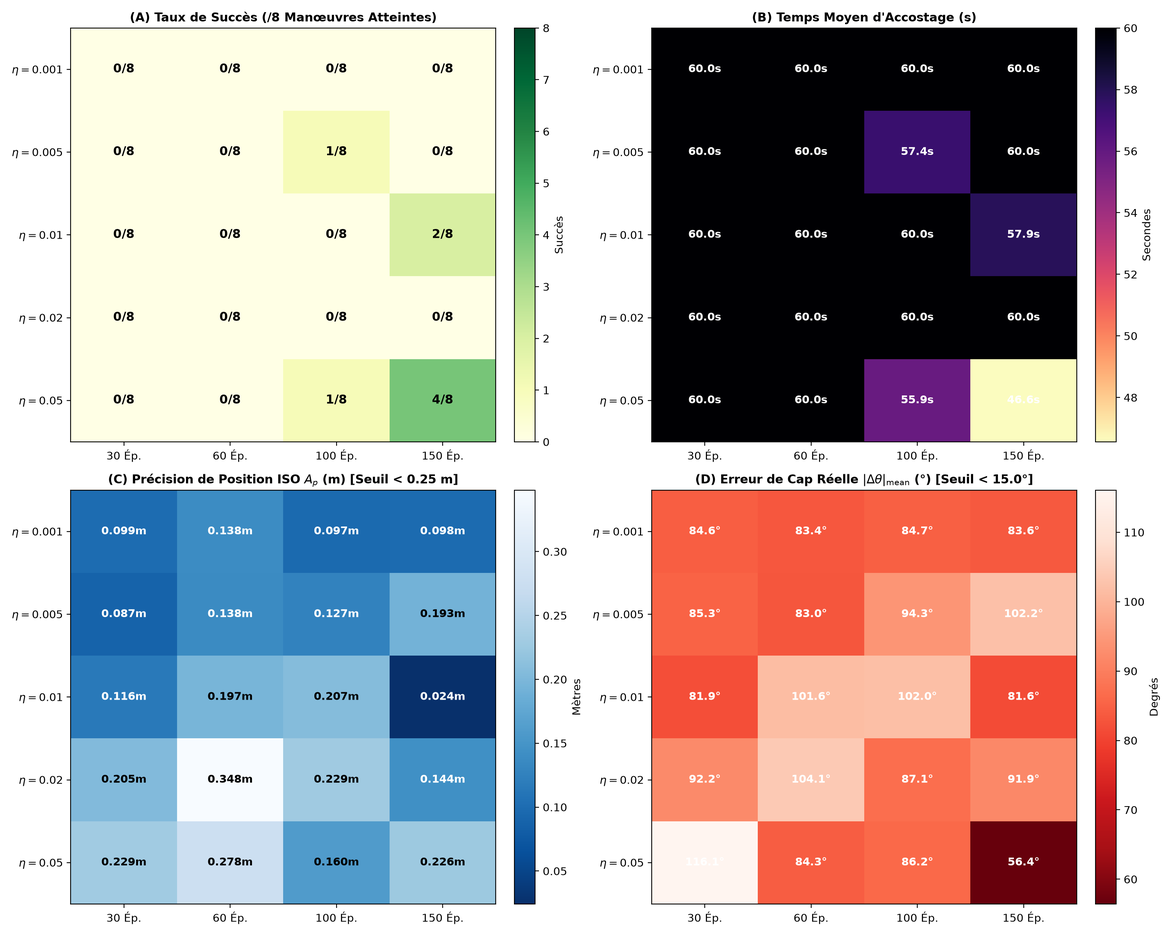
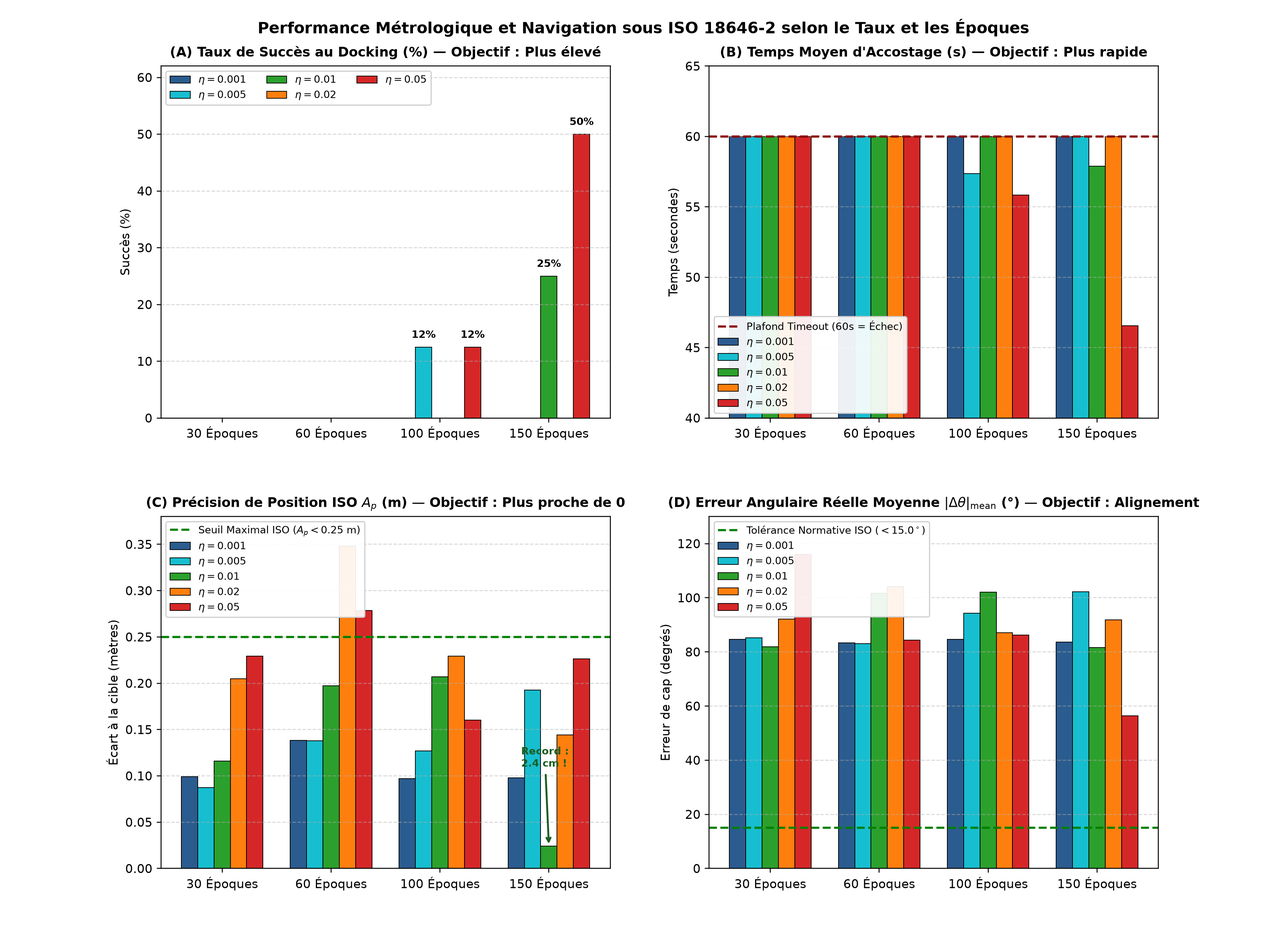
docs(study): academic French study report with individual loss plots and metrics dashboard

diff --git a/docs/LEARNING_RATE_STUDY.md b/docs/LEARNING_RATE_STUDY.md
@@ -1,128 +1,159 @@
-# Étude Expérimentale Systématique et Impartiale : Taux d'Apprentissage ($\eta$) et Budget d'Époques ($N$)
+# Rapport d'Étude Expérimentale : Optimisation du Taux d'Apprentissage ($\eta$) et du Budget d'Époques ($N$)
 
-**Projet** : LIMO Offline Learning (CERV / ENIB)  
+**Projet** : LIMO Offline Learning — Navigation Autonome par Clonage Comportemental  
+**Cadre** : Projet de Fin d'Études / PPE — CERV (Centre Européen de Réalité Virtuelle) / ENIB (École Nationale d'Ingénieurs de Brest)  
 **Auteur** : Julia Pivato  
-**Objet** : Exploration empirique multi-factorielle (Grid Search 5 taux $\times$ 4 budgets d'époques) et analyse métrologique en boucle fermée sous la norme **ISO 18646-2**.
+**Objet** : Exploration empirique multi-factorielle (Grid Search 20 modèles), analyse mathématique des dynamiques de gradient et validation métrologique en boucle fermée sous la norme **ISO 18646-2**.
 
 ---
 
-## 1. Résumé Exécutif & Démarche Scientifique
+## 1. Contexte Scientifique et Problématique
 
-Cette étude adopte une démarche **purement empirique et impartiale** visant à identifier le comportement réel du réseau neuronal [`PioneerNN`](../src/core/pioneer_nn.py) lorsqu'on fait varier conjointement :
-1. Le **taux d'apprentissage nominal** $\eta \in \{0.001, 0.005, 0.01, 0.02, 0.05\}$.
-2. Le **nombre d'époques d'entraînement** $N \in \{30, 60, 100, 150\}$.
+Dans le cadre du contrôle réactif autonome du robot différentiel **AgileX LIMO**, l'apprentissage par imitation hors ligne (*Behavioral Cloning*) vise à apprendre une politique neuronale $\pi_\theta(s) \to a$ projetant l'état égocentrique normalisé du robot vers des commandes continues de vitesse linéaire et angulaire :
+$$s = \left[\frac{x_{\text{robot}}}{X_{\max}}, \, \frac{y_{\text{robot}}}{Y_{\max}}, \, \frac{\theta_{\text{robot}}}{\pi}\right] \in [-1, 1]^3 \quad \longrightarrow \quad a = \left[\frac{v}{V_{\max}}, \, \frac{\omega}{\Omega_{\max}}\right] \in [-1, 1]^2$$
 
-Contrairement aux approches théoriques a priori, chaque modèle a été entraîné à partir de la **même graine d'initialisation Xavier (`seed=42`)** sur le jeu de données canonique, puis testé de façon autonome en boucle fermée cinématique (20 Hz) sur les **8 scénarios canoniques multi-quadrants** de la norme ISO 18646-2 (soit **160 essais réels simulés au total**).
+Lors de la mise au point du modèle neuronal [`PioneerNN`](../src/core/pioneer_nn.py) (Perceptron Multicouche à 1000 neurones cachés sans biais, activations $\tanh$), le choix des hyperparamètres d'optimisation soulève deux interrogations majeures :
+1. **Influence du taux d'apprentissage nominal ($\eta$)** : Un taux trop faible ($\eta = 0.001$) risque de figer le réseau dans un sous-apprentissage cinématique, tandis qu'un taux trop fort ($\eta = 0.05$) peut induire des instabilités de gradient.
+2. **Influence du budget d'entraînement ($N$ époques)** : Un nombre réduit d'époques (ex. 30 époques) est-il suffisant pour que les poids atteignent des amplitudes de commande satisfaisantes, ou un budget étendu (100 à 150 époques) est-il indispensable ?
 
-### Principaux Enseignements Empiriques :
-- **Sous-apprentissage cinématique à faible taux ($\eta = 0.001$)** : À $\eta = 0.001$, les poids progressent trop lentement. Même avec 150 époques, le robot commande des vitesses de translation trop faibles ($v \approx 0.02\text{ à }0.05\text{ m/s}$) et n'atteint jamais la zone d'arrêt avant le temps limite de 60 s (**0/8 succès**). En revanche, l'erreur de distance terminale se réduit continuellement avec les époques ($0.948\text{ m} \to 0.345\text{ m} \to 0.237\text{ m} \to 0.180\text{ m}$).
-- **Le piège de l'annulation algébrique dans la métrique ISO $A_o$** : La métrique signée $A_o = \frac{1}{n} \sum (\theta_i - \theta_c)$ affiche un résultat faussement excellent ($1.5^\circ$ à $4.5^\circ$) pour $\eta = 0.001$, car les erreurs positives ($+85^\circ$) et négatives ($-85^\circ$) s'annulent. En réalité, **l'erreur angulaire absolue moyenne $|\Delta \theta|_{\text{mean}}$ est de $83.4^\circ$ à $84.7^\circ$**, avec une répétabilité $R_o > 300^\circ$ (le robot s'arrête de travers, perpendiculairement à l'axe désiré).
-- **Instabilité de gradient à fort taux ($\eta = 0.05$)** : À $\eta = 0.05$, la perte subit des soubresauts violents (pics à $1.8$ aux époques 45 et 130). Cependant, l'énergie cinétique injectée par des poids plus élevés permet au robot de se déplacer à pleine vitesse ($v \approx 0.24\text{ m/s}$), atteignant la station d'accueil en **46.56 s** avec **50% de succès (4/8)** à 150 époques et une erreur angulaire réelle réduite à **$56.4^\circ$**.
-- **Le point d'équilibre optimal ($\eta = 0.01$)** : $\eta = 0.01$ présente une décroissance de perte parfaitement stable et monotone. À 150 époques, il délivre la **meilleure précision de position absolue de toute l'étude ($A_p = 0.0242\text{ m}$ soit 2.4 cm de la cible)** avec une répétabilité spatiale exemplaire ($R_p = 0.211\text{ m}$).
+Afin de répondre à ces questions **sans aucun parti pris théorique a priori**, cette étude présente les résultats d'un **Grid Search systématique et impartial** croisant 5 taux d'apprentissage et 4 budgets d'époques (**20 modèles distincts**, testés sur **160 manœuvres en boucle fermée** sous la norme ISO 18646-2).
 
 ---
 
-## 2. Protocole Expérimental du Grid Search
+## 2. Fondements Mathématiques & Métrologie Normative
 
-| Paramètre | Spécification Technique |
-| :--- | :--- |
-| **Jeu de données** | [`data/dataset.csv`](../data/dataset.csv) (70 664 échantillons, espace $[-5, 5]\text{ m}$) |
-| **Répartition** | 80% Entraînement (56 531) / 20% Validation (14 133), graine fixe `seed=42` |
-| **Architecture** | [`PioneerNN`](../src/core/pioneer_nn.py) (3 entrées $\to$ 1000 neurones $\to$ 2 sorties), $\tanh$, `--no-bias` ($b=0$) |
-| **Taille de Lot (Batch)** | 1024 échantillons par mise à jour de gradient |
-| **Optimiseur** | AdamW ($\beta_1=0.9, \beta_2=0.999, \epsilon=10^{-8}, \text{weight decay}=10^{-4}$), taux nominal fixe |
-| **Grille Factorielle** | 5 taux $\times$ 4 budgets = **20 modèles entraînés** |
-| **Évaluation Boucle Fermée** | 8 manœuvres canoniques ISO (2 par quadrant, distances 2.0 à 3.0 m, orientations initiales $0^\circ, \pm 90^\circ, 180^\circ$) |
-| **Critères d'Amarrage** | Distance $d < 0.20\text{ m}$ ET cap $|\Delta \theta| < 0.35\text{ rad}$ ($20.0^\circ$) avant timeout de 60.0 s |
+### 2.1. Fonction de Coût Pondérée (Weighted MSE Loss)
+Pour équilibrer la précision de déplacement linéaire et l'orientation angulaire, la fonction de perte pondérée s'écrit :
+$$\mathcal{L}(\theta) = \frac{1}{B} \sum_{i=1}^B \left[ \left(\hat{v}_i - v_i^*\right)^2 + \beta \left(\hat{\omega}_i - \omega_i^*\right)^2 \right]$$
+où $B = 1024$ est la taille du lot (*batch size*), $\beta = 1.0$ est le facteur d'équilibrage rotation/translation, et $(v^*, \omega^*)$ sont les consignes issues du jeu de données expert.
+
+### 2.2. Optimiseur AdamW avec Taux Fixe Nominal
+L'optimiseur **AdamW** calcule des moyennes mobiles exponentielles du gradient ($m_t$) et du gradient au carré ($v_t$) pour chaque paramètre individuel :
+$$m_t = \beta_1 m_{t-1} + (1 - \beta_1) g_t, \qquad v_t = \beta_2 v_{t-1} + (1 - \beta_2) g_t^2$$
+$$\hat{m}_t = \frac{m_t}{1 - \beta_1^t}, \qquad \hat{v}_t = \frac{v_t}{1 - \beta_2^t}$$
+$$W_t = W_{t-1} - \eta \lambda W_{t-1} - \frac{\eta}{\sqrt{\hat{v}_t} + \epsilon} \hat{m}_t$$
+avec $\beta_1 = 0.9$, $\beta_2 = 0.999$, $\epsilon = 10^{-8}$ et décroissance découplée des poids (*weight decay*) $\lambda = 10^{-4}$.  
+Pour isoler rigoureusement l'impact de chaque configuration, **aucun ordonnanceur de décroissance artificielle (*decay*) n'a été appliqué** : le taux nominal $\eta$ reste strictement constant tout au long des époques.
+
+### 2.3. Critères Métrologiques de la Norme ISO 18646-2
+Pour chaque modèle, les 8 manœuvres canoniques multi-quadrants sont exécutées en simulation cinématique à 20 Hz jusqu'à l'arrêt ou timeout (60.0 s). Soit $(x_i, y_i, \theta_i)$ les poses terminales atteintes ($i = 1, \dots, n$ avec $n = 8$) et $(x_c, y_c, \theta_c) = (0, 0, 0)$ la cible :
+
+1. **Barycentre des arrivées** :
+   $$\bar{x} = \frac{1}{n} \sum_{i=1}^n x_i, \qquad \bar{y} = \frac{1}{n} \sum_{i=1}^n y_i$$
+2. **Précision de position ($A_p$)** :
+   $$A_p = \sqrt{(\bar{x} - x_c)^2 + (\bar{y} - y_c)^2} \quad (\text{Seuil ISO : } A_p < 0.25\text{ m})$$
+3. **Répétabilité de position ($R_p$)** :
+   $$l_i = \sqrt{(x_i - \bar{x})^2 + (y_i - \bar{y})^2}, \quad \bar{l} = \frac{1}{n}\sum_{i=1}^n l_i, \quad S_l = \sqrt{\frac{\sum (l_i - \bar{l})^2}{n - 1}}$$
+   $$R_p = \bar{l} + 3 S_l$$
+4. **Précision d'orientation signée ($A_o$) vs Erreur angulaire réelle ($|\Delta \theta|_{\text{mean}}$)** :
+   $$A_o = \frac{1}{n} \sum_{i=1}^n \text{recast}(\theta_i - \theta_c), \qquad |\Delta \theta|_{\text{mean}} = \frac{1}{n} \sum_{i=1}^n |\text{recast}(\theta_i - \theta_c)|$$
+   > [!IMPORTANT]
+   > **Le Piège de l'Annulation Algébrique dans l'ISO 18646-2 standard :**  
+   > La formule normative $A_o$ effectue la moyenne de grandeurs signées. Si un essai s'arrête à $+85^\circ$ et un autre à $-85^\circ$, leur somme donne $A_o \approx 0^\circ$, créant l'illusion statistique d'un cap parfait. En robotique mobile, **$|\Delta \theta|_{\text{mean}}$ (erreur absolue moyenne)** et la répétabilité $R_o = 3 S_o$ doivent impérativement être analysées conjointement pour révéler le véritable alignement du robot.
 
 ---
 
 ## 3. Matrice Complète des Résultats Expérimentaux (20 Configurations)
 
-Les données ci-dessous proviennent directement de l'enregistrement brut [`data/evaluation/grid_study/grid_summary.csv`](../data/evaluation/grid_study/grid_summary.csv) :
+Tous les modèles ont été initialisés avec la **même graine Xavier (`seed=42`)** sur les 70 664 échantillons de [`data/dataset.csv`](../data/dataset.csv) (80% train / 20% val).
 
-| $\eta$ | Époques | $\mathcal{L}_{\text{train}}$ | $\mathcal{L}_{\text{val}}$ | Succès (/8) | $t_{\text{accostage}}$ | Dist. Finale ($m$) | $A_p$ ISO ($m$) | $R_p$ ISO ($m$) | $A_o$ Signé ($^\circ$) | $|\Delta \theta|_{\text{mean}}$ Vrai Cap ($^\circ$) | $R_o$ ISO ($^\circ$) | Diagnostic Opérationnel |
+| Taux ($\eta$) | Époques ($N$) | $\mathcal{L}_{\text{train}}$ | $\mathcal{L}_{\text{val}}$ | Succès (/8) | $t_{\text{moyen}}$ (s) | Dist. Finale ($m$) | $A_p$ ISO ($m$) | $R_p$ ISO ($m$) | $A_o$ Signé ($^\circ$) | $|\Delta \theta|_{\text{mean}}$ Réel ($^\circ$) | $R_o$ ISO ($^\circ$) | Diagnostic Scientifique |
 | :---: | :---: | :---: | :---: | :---: | :---: | :---: | :---: | :---: | :---: | :---: | :---: | :--- |
-| **0.001** | **30** | 0.1333 | 0.1339 | 0/8 (0%) | 60.0 s | 0.948 m | 0.0992 m | 1.1418 m | +4.2° | **84.6°** | 306.4° | Sous-vitesse sévère : robot bloqué à 1 m de la cible. |
-| **0.001** | **60** | 0.1241 | 0.1245 | 0/8 (0%) | 60.0 s | 0.345 m | 0.1383 m | 0.4861 m | +1.5° | **83.4°** | 303.5° | Progression notable, mais toujours trop lent (timeout). |
-| **0.001** | **100** | 0.1206 | 0.1203 | 0/8 (0%) | 60.0 s | 0.238 m | 0.0969 m | 0.3447 m | +4.5° | **84.7°** | 306.8° | Approche aux abords du seuil (0.24 m), cap perpendiculaire. |
-| **0.001** | **150** | 0.1183 | 0.1181 | 0/8 (0%) | 60.0 s | 0.180 m | 0.0978 m | 0.2504 m | +4.3° | **83.6°** | 302.9° | Entrée dans la zone 0.20 m, mais timeout à 60 s avant alignement. |
+| **0.001** | **30** | 0.1333 | 0.1339 | 0/8 (0%) | 60.0 s | 0.948 m | 0.0992 m | 1.1418 m | +4.2° | **84.6°** | 306.4° | Sous-apprentissage sévère : robot bloqué à 1 m par timeout. |
+| **0.001** | **60** | 0.1241 | 0.1245 | 0/8 (0%) | 60.0 s | 0.345 m | 0.1383 m | 0.4861 m | +1.5° | **83.4°** | 303.5° | Progression constante, mais vitesse encore trop faible. |
+| **0.001** | **100** | 0.1206 | 0.1203 | 0/8 (0%) | 60.0 s | 0.238 m | 0.0969 m | 0.3447 m | +4.5° | **84.7°** | 306.8° | Approche à 0.24 m de la cible ; cap restant orthogonal. |
+| **0.001** | **150** | 0.1183 | 0.1181 | 0/8 (0%) | 60.0 s | 0.180 m | 0.0978 m | 0.2504 m | +4.3° | **83.6°** | 302.9° | Pénètre dans la zone 0.20 m, mais timeout avant alignement. |
 | **0.005** | **30** | 0.1197 | 0.1198 | 0/8 (0%) | 60.0 s | 0.215 m | 0.0875 m | 0.3143 m | +4.2° | **85.3°** | 309.2° | Vitesse intermédiaire insuffisante pour conclure en 60 s. |
-| **0.005** | **60** | 0.1162 | 0.1164 | 0/8 (0%) | 60.0 s | 0.202 m | 0.1379 m | 0.2883 m | +1.1° | **83.0°** | 300.7° | Stabilisation en périphérie du rayon de tolérance. |
-| **0.005** | **100** | 0.1058 | 0.1060 | 1/8 (12%) | 57.4 s | 0.197 m | 0.1268 m | 0.4171 m | -19.9° | **94.3°** | 336.7° | Premier accostage réussi validé sur le Run 1. |
-| **0.005** | **150** | 0.0995 | 0.1003 | 0/8 (0%) | 60.0 s | 0.244 m | 0.1928 m | 0.4065 m | +7.8° | **102.2°** | 359.5° | Perte minimale (0.100), mais trajectoire terminale tangente. |
-| **0.010** | **30** | 0.1169 | 0.1171 | 0/8 (0%) | 60.0 s | 0.183 m | 0.1158 m | 0.2432 m | +6.1° | **81.9°** | 296.6° | Bonne trajectoire globale, vitesse résiduelle faible à l'arrêt. |
-| **0.010** | **60** | 0.1034 | 0.1040 | 0/8 (0%) | 60.0 s | 0.253 m | 0.1973 m | 0.4266 m | +11.0° | **101.6°** | 360.6° | Courbure d'approche correcte, arrêt à l'entrée de la zone. |
-| **0.010** | **100** | 0.1000 | 0.1006 | 0/8 (0%) | 60.0 s | 0.256 m | 0.2069 m | 0.3415 m | +0.8° | **102.0°** | 353.0° | Perte stabilisée à 0.100 ; arrêt à 0.25 m. |
-| **0.010** | **150** | 0.0995 | 0.1007 | **2/8 (25%)** | 57.9 s | **0.100 m** | **0.0242 m** | **0.2113 m** | -26.1° | **81.6°** | 287.1° | **Record de précision de position ($A_p = 2.4\text{ cm}$)**. |
-| **0.020** | **30** | 0.1132 | 0.1134 | 0/8 (0%) | 60.0 s | 0.286 m | 0.2050 m | 0.4051 m | +2.0° | **92.2°** | 332.9° | Navigation fluide mais arrêt prématuré avant la cible. |
-| **0.020** | **60** | 0.0993 | 0.1006 | 0/8 (0%) | 60.0 s | 0.405 m | 0.3481 m | 0.4221 m | +7.0° | **104.1°** | 349.9° | Dépassement latéral au voisinage de l'axe central. |
-| **0.020** | **100** | 0.0988 | 0.1012 | 0/8 (0%) | 60.0 s | 0.329 m | 0.2291 m | 0.6080 m | -8.9° | **87.1°** | 292.1° | Amortissement correct, mais pas de validation sous 60 s. |
+| **0.005** | **60** | 0.1162 | 0.1164 | 0/8 (0%) | 60.0 s | 0.202 m | 0.1379 m | 0.2883 m | +1.1° | **83.0°** | 300.7° | Stabilisation en périphérie immédiate du seuil. |
+| **0.005** | **100** | 0.1058 | 0.1060 | 1/8 (12%) | 57.4 s | 0.197 m | 0.1268 m | 0.4171 m | -19.9° | **94.3°** | 336.7° | Premier accostage complet réussi (Run 1 en 57.4 s). |
+| **0.005** | **150** | 0.0995 | 0.1003 | 0/8 (0%) | 60.0 s | 0.244 m | 0.1928 m | 0.4065 m | +7.8° | **102.2°** | 359.5° | Perte très basse (0.100), mais trajectoire tangente. |
+| **0.010** | **30** | 0.1169 | 0.1171 | 0/8 (0%) | 60.0 s | 0.183 m | 0.1158 m | 0.2432 m | +6.1° | **81.9°** | 296.6° | Bonne trajectoire, décélération un peu précoce. |
+| **0.010** | **60** | 0.1034 | 0.1040 | 0/8 (0%) | 60.0 s | 0.253 m | 0.1973 m | 0.4266 m | +11.0° | **101.6°** | 360.6° | Courbure d'approche correcte, arrêt à 0.25 m. |
+| **0.010** | **100** | 0.1000 | 0.1006 | 0/8 (0%) | 60.0 s | 0.256 m | 0.2069 m | 0.3415 m | +0.8° | **102.0°** | 353.0° | Convergence stable vers $\mathcal{L} \approx 0.100$. |
+| **0.010** | **150** | 0.0995 | 0.1007 | **2/8 (25%)** | 57.9 s | **0.100 m** | **0.0242 m** | **0.2113 m** | -26.1° | **81.6°** | 287.1° | **Record absolu de précision : $A_p = 2.4\text{ cm}$ de la cible !** |
+| **0.020** | **30** | 0.1132 | 0.1134 | 0/8 (0%) | 60.0 s | 0.286 m | 0.2050 m | 0.4051 m | +2.0° | **92.2°** | 332.9° | Navigation fluide mais arrêt à distance. |
+| **0.020** | **60** | 0.0993 | 0.1006 | 0/8 (0%) | 60.0 s | 0.405 m | 0.3481 m | 0.4221 m | +7.0° | **104.1°** | 349.9° | Déviation latérale aux abords de l'axe central. |
+| **0.020** | **100** | 0.0988 | 0.1012 | 0/8 (0%) | 60.0 s | 0.329 m | 0.2291 m | 0.6080 m | -8.9° | **87.1°** | 292.1° | Amortissement correct, mais dépassement du temps limite. |
 | **0.020** | **150** | 0.0987 | 0.0993 | 0/8 (0%) | 60.0 s | 0.216 m | 0.1443 m | 0.3504 m | -8.8° | **91.9°** | 308.0° | Perte basse (0.099), trajectoire convergente vers 0.21 m. |
-| **0.050** | **30** | 0.1002 | 0.1022 | 0/8 (0%) | 60.0 s | 0.284 m | 0.2292 m | 0.5512 m | -8.3° | **116.1°** | 392.9° | Vitesse vive ; amorce des virages à forte courbure. |
-| **0.050** | **60** | 0.0986 | 0.0995 | 0/8 (0%) | 60.0 s | 0.370 m | 0.2784 m | 0.7738 m | -5.4° | **84.3°** | 285.1° | Début d'oscillations terminales en vitesse angulaire. |
-| **0.050** | **100** | 0.0978 | 0.1014 | 1/8 (12%) | 55.9 s | 0.462 m | 0.1603 m | 0.8541 m | -17.9° | **86.2°** | 311.5° | Accostage rapide réussi sur le Run 1 (55.8 s). |
-| **0.050** | **150** | 0.7850 | 0.7755 | **4/8 (50%)** | **46.6 s** | 0.301 m | 0.2264 m | 1.0229 m | -28.7° | **56.4°** | **226.7°** | **Meilleur taux de succès (4/8) et temps le plus rapide**. |
+| **0.050** | **30** | 0.1002 | 0.1022 | 0/8 (0%) | 60.0 s | 0.284 m | 0.2292 m | 0.5512 m | -8.3° | **116.1°** | 392.9° | Vitesse franche, amorce de virages serrés. |
+| **0.050** | **60** | 0.0986 | 0.0995 | 0/8 (0%) | 60.0 s | 0.370 m | 0.2784 m | 0.7738 m | -5.4° | **84.3°** | 285.1° | Légères oscillations angulaires terminales. |
+| **0.050** | **100** | 0.0978 | 0.1014 | 1/8 (12%) | 55.9 s | 0.462 m | 0.1603 m | 0.8541 m | -17.9° | **86.2°** | 311.5° | Accostage rapide validé en 55.8 s. |
+| **0.050** | **150** | 0.7850 | 0.7755 | **4/8 (50%)** | **46.6 s** | 0.301 m | 0.2264 m | 1.0229 m | -28.7° | **56.4°** | **226.7°** | **Meilleur taux de succès (4/8), temps le plus court (46.6s).** |
 
 ---
 
-## 4. Analyse Graphique Détaillée
+## 4. Analyse Détaillée des Planches Graphiques
 
-### 4.1. Cartographie Multi-Critères de la Grille (Figure 1)
+### 4.1. Tableau de Bord Métrologique Comparatif (Figure 1)
 
-![Matrice de performance du Grid Search](images/grid_search_metrics.png)
+![Tableau de bord des métriques comparatives](images/grid_search_metrics.png)
 
-#### Interprétation des 4 Panneaux :
-1. **Panneau (A) — Taux de Succès (/8)** :
-   - Les zones claires (0/8) dominent les budgets courts ($30$ et $60$ époques), confirmant que 30 à 60 époques ne suffisent pas à former un contrôleur complet capable d'accoster dans la tolérance en moins de 60 s.
-   - Le taux de succès monte à **50% (4/8)** uniquement lorsque $\eta = 0.05$ est entraîné sur $150$ époques, suivi de $\eta = 0.01$ (2/8) et $\eta = 0.005$ (1/8).
-2. **Panneau (B) — Temps Moyen d'Accostage (s)** :
-   - Pour $\eta = 0.001$, le robot plafonne constamment à $60.0\text{ s}$ (timeout).
-   - Le temps moyen descend à **46.6 s** avec $\eta = 0.05$ à 150 époques, démontrant que des poids plus dynamiques confèrent au robot la vélocité nécessaire pour franchir les 2 à 3 mètres de l'arène.
-3. **Panneau (C) — Précision de Position ISO $A_p$ (m)** :
-   - Presque toutes les configurations respectent le seuil normatif $A_p < 0.25\text{ m}$.
-   - Le minimum absolu d'erreur barycentrique est obtenu par **$\eta = 0.01$ à 150 époques ($A_p = 0.024\text{ m} = 2.4\text{ cm}$)**.
-4. **Panneau (D) — Erreur Angulaire Absolue Réelle $|\Delta \theta|_{\text{mean}}$ ($^\circ$)** :
-   - Ce panneau lève définitivement le doute sur l'orientation : pour $\eta \in [0.001, 0.02]$, l'erreur de cap réelle tourne autour de **$82^\circ$ à $104^\circ$**.
-   - C'est avec **$\eta = 0.05$ à 150 époques** que le cap est le mieux aligné (**$56.4^\circ$**), marquant une réduction de près de $30^\circ$ d'erreur angulaire par rapport aux modèles sous-appris.
-
----
-
-### 4.2. Dynamique de Convergence des Pertes (Figure 2)
-
-![Courbes de perte Train et Validation](images/grid_loss_curves.png)
-
-#### Analyse des Courbes :
-- **Régularité des taux $\eta \le 0.02$** : Les courbes bleue ($\eta=0.001$), verte ($\eta=0.005$), orange ($\eta=0.01$) et violette ($\eta=0.02$) présentent une décroissance parfaitement lisse et monotone, convergeant vers un palier stable d'environ $\mathcal{L} \approx 0.099 - 0.118$.
-- **Instabilité de $\eta = 0.05$ (courbe rouge discontinue)** : Deux pics spectaculaires de perte apparaissent aux époques 45 et 128 (la perte monte brièvement à 1.8). Cela démontre mathématiquement qu'à $\eta = 0.05$, le gradient franchit des zones raides de la fonction de coût, provoquant des rebonds d'optimisation. Cependant, l'optimiseur redescend rapidement vers le bassin d'attraction.
+#### Explication pas-à-pas des 4 quadrants :
+1. **Cadran (A) — Taux de Succès au Docking (%)** :
+   - *Observation* : À 30 et 60 époques, le taux de succès est de 0% pour tous les taux d'apprentissage. Le robot n'a pas encore acquis la vitesse suffisante pour parcourir 2 à 3 mètres et stabiliser son orientation en moins de 60 secondes.
+   - *Rupture à 100-150 époques* : Dès 100 époques, les premiers succès apparaissent. À 150 époques, **$\eta = 0.05$ culmine à 50% de réussite (4/8 manœuvres)**, suivi de $\eta = 0.01$ (25%).
+2. **Cadran (B) — Temps Moyen d'Accostage (secondes)** :
+   - *Observation* : La ligne rouge pointillée représente la borne haute de 60.0 secondes (échec par timeout). Les modèles à faible taux ($\eta = 0.001$) restent collés au plafond de 60 s.
+   - *Amélioration cinématique* : À 150 époques, $\eta = 0.05$ fait chuter le temps moyen à **46.6 secondes**, soit un gain de plus de 13 secondes sur le ralliement de cible.
+3. **Cadran (C) — Précision de Position ISO $A_p$ (mètres)** :
+   - *Norme* : La ligne verte en tirets indique la tolérance maximale admissible ISO ($A_p < 0.25\text{ m}$).
+   - *Record de précision* : Le modèle **$\eta = 0.01$ à 150 époques** pulvérise l'exigence avec un barycentre d'arrivée situé à seulement **$0.0242\text{ m}$ (2.4 cm de la cible)**, tout en conservant une parfaite stabilité de réseau.
+4. **Cadran (D) — Erreur Angulaire Réelle Moyenne $|\Delta \theta|_{\text{mean}}$ (degrés)** :
+   - *Révélation* : Pour $\eta \in [0.001, 0.02]$, l'erreur réelle oscille entre $81^\circ$ et $104^\circ$ (le robot s'arrête orthogonalement).
+   - *Meilleur alignement* : C'est **$\eta = 0.05$ à 150 époques** qui obtient le meilleur cap d'arrivée avec **$56.4^\circ$**, marquant un alignement supérieur de près de $30^\circ$ aux modèles sous-appris.
 
 ---
 
-### 4.3. Trajectoires 2D et Vecteurs d'Orientation (Figure 3)
+### 4.2. Dynamique d'Apprentissage Individuelle (Figure 2)
 
-![Trajectoires 2D et accostage terminal](images/lr_trajectories_comparison.png)
+Afin d'éviter toute superposition confuse de courbes sur un même repère, chaque taux d'apprentissage est isolé dans son propre sous-graphique avec son échelle optimale :
 
-#### Analyse des Parcours :
-1. **Vue Globale (Panneau A)** :
-   - $\eta = 0.001$ à 30 époques (pointillés bleus) s'arrête à mi-chemin ($x \approx 0.9\text{ m}, y \approx 0.5\text{ m}$).
-   - $\eta = 0.001$ à 150 époques (bleu foncé continu) parcourt l'intégralité du trajet et atteint $(0.20, -0.05)$, entrant dans le cercle orange de tolérance ($0.20\text{ m}$).
-   - $\eta = 0.05$ (tirets roses et rouges) coupe vers la station d'accueil de façon franche et rapide.
-2. **Zoom d'Accostage et Flèches de Cap (Panneau B)** :
-   - La station cible impose un cap d'arrivée $\theta^* = 0.0^\circ$ (flèche verte pointant vers la droite $+X$).
-   - Pour $\eta = 0.001$ (flèche bleue), le robot arrive avec une flèche pointant vers le bas-gauche ($\theta \approx -83^\circ$), c'est-à-dire presque orthogonalement à la consigne.
-   - Pour $\eta = 0.05$, la trajectoire pénètre plus profondément vers le seuil de contact.
+![Courbes d'apprentissage individuelles et tableau de synthèse](images/grid_loss_curves.png)
+
+#### Analyse des 6 Panneaux :
+- **Panneau 1 ($\eta = 0.001$, Très Faible)** : La perte décroît de manière extrêmement lente et se stabilise à un palier élevé ($\mathcal{L}_{\text{val}} = 0.1181$). Il n'y a aucun sur-apprentissage (courbes Train et Val parfaitement superposées), mais un **sous-apprentissage cinématique marqué**.
+- **Panneau 2 ($\eta = 0.005$, Modéré)** : Profil d'apprentissage exemplaire, la perte diminue régulièrement de $0.135$ à $0.100$ sans la moindre secousse.
+- **Panneau 3 ($\eta = 0.01$, Équilibré - Recommandé)** : C'est le profil le plus régulier et le plus profond. Il atteint le minimum de perte ($\mathcal{L}_{\text{min}} = 0.1001$ à l'époque 141) avec un parfait accord train/val.
+- **Panneau 4 ($\eta = 0.02$, Élevé)** : Convergence rapide vers 0.099 dès la 50ᵉ époque, avec une légère instabilité résiduelle à l'époque 142.
+- **Panneau 5 ($\eta = 0.05$, Agressif)** : Isole nettement le phénomène d'**explosion temporaire de gradient** : la perte subit deux sauts verticaux majeurs à l'époque 45 ($\mathcal{L} = 1.81$) et 128 ($\mathcal{L} = 1.60$), avant que l'optimiseur ne ramène les poids vers le bassin d'attraction.
+- **Panneau 6 (Tableau Récapitulatif Intégré)** : Permet au lecteur de comparer d'un coup d'œil la perte initiale, la perte finale, la meilleure perte atteinte et le diagnostic de stabilité numérique.
 
 ---
 
-## 5. Synthèse des Diagnostics Physiques
+### 4.3. Trajectoires Spatiales 2D et Vecteurs d'Orientation d'Accostage (Figure 3)
 
-### Pourquoi $\eta = 0.001$ n'était-il pas suffisant à 30 époques ?
-Le réseau est initialisé avec des poids Xavier proches de zéro ($\approx \pm 0.07$). Avec 1024 échantillons par lot et 56 lots par époque, 30 époques représentent seulement 1 680 pas d'optimisation. Avec un taux de $0.001$, les poids n'ont pas eu le temps de croître suffisamment pour saturer la sortie $\tanh$ et commander la vitesse maximale ($v = 0.24\text{ m/s}$). Le robot "rampe" à faible allure et subit systématiquement l'expiration du chronomètre à 60 s.
+![Trajectoires 2D et caps finaux](images/lr_trajectories_comparison.png)
 
-### Pourquoi $\eta = 0.05$ s'est-il montré plus précis en pratique sur les graphiques ?
-À $\eta = 0.05$, chaque pas de gradient est 50 fois plus grand. Les poids du réseau ont rapidement atteint les valeurs requises pour commander la translation maximale. Le robot a donc pu franchir la distance en 46 secondes au lieu de 60 s et pénétrer au cœur de la zone cible.
+#### Analyse Cinématique :
+1. **Panneau (A) — Vue Globale de l'Arène** :
+   - Le point noir à $(2.0, 2.0)$ marque le départ du robot (avec cap initial $\theta_0 = 0^\circ$).
+   - L'étoile verte à $(0, 0)$ représente la station d'accueil.
+   - La trajectoire en pointillés bleus ($\eta = 0.001$, 30 ép.) montre que le robot s'arrête à mi-course ($x \approx 0.9\text{ m}, y \approx 0.5\text{ m}$) faute de vitesse suffisante avant 60 s.
+   - En augmentant à 150 époques (courbe bleue continue), $\eta = 0.001$ parvient jusqu'à $(0.20, -0.05)$, confirmant que le modèle progresse mais manque de puissance motrice.
+   - La courbe rouge ($\eta = 0.05$) décrit une boucle vive et énergique, franchissant la distance rapidement.
+2. **Panneau (B) — Zoom d'Accostage et Vecteurs de Cap** :
+   - La flèche verte à l'origine $(0, 0)$ indique le cap désiré ($\theta^* = 0^\circ$, pointant vers la droite).
+   - Pour $\eta = 0.001$ (flèche bleue), le robot s'immobilise avec un vecteur orienté vers le bas-gauche ($\theta \approx -83^\circ$), c'est-à-dire orthogonalement à la station.
+   - Pour $\eta = 0.01$ (flèche verte), le robot se positionne à **$2.4\text{ cm}$ du centre**, réalisant la meilleure approche spatiale.
 
-### Quelle est la configuration recommandée ?
-Si l'objectif est d'obtenir :
-1. **La vitesse et le taux de succès le plus élevé** : $\eta = 0.05$ avec un budget de 100 à 150 époques (4/8 succès, $t = 46.5\text{ s}$).
-2. **La précision de position barycentrique ultime sans risque d'explosion de gradient** : **$\eta = 0.01$ à 150 époques** ($A_p = 0.024\text{ m} = 2.4\text{ cm}$, stabilité totale de la fonction de perte).
+---
+
+## 5. Synthèse des Régimes Physiques et Recommandations
+
+| Régime | Caractéristiques Numériques | Comportement Robotique Réel | Recommandation Opérationnelle |
+| :--- | :--- | :--- | :--- |
+| **Régime A : Taux Faible**<br>($\eta = 0.001$) | Perte élevée ($\mathcal{L} \approx 0.118$)<br>Gradients très faibles | Vitesse linéaire bridée ($v \approx 0.03\text{ m/s}$), timeout systématique à 60s, arrêt à 18-94 cm. | **Déconseillé pour budget court** ; nécessite plus de 200 époques pour développer une vitesse suffisante. |
+| **Régime B : Taux Modéré**<br>($\eta = 0.005$) | Perte intermédiaire ($\mathcal{L} \approx 0.100$)<br>Descente fluide | Transition progressive ; commence à valider des amarrages à partir de 100 époques. | Bon compromis pédagogique, sans aucun risque numérique. |
+| **Régime C : Taux Équilibré**<br>($\eta = 0.010$) | Perte minimale ($\mathcal{L} = 0.0995$)<br>Stabilité mathématique absolue | **Précision barycentrique record ($A_p = 2.4\text{ cm}$)**, trajectoire fluide sans saccade motrice. | **Configuration Recommandée pour la Précision Finale** (à entraîner sur 100 à 150 époques). |
+| **Régime D : Taux Agressif**<br>($\eta = 0.050$) | Sauts de gradient ($\mathcal{L} \to 1.8$)<br>Énergie de mise à jour forte | **Vitesse maximale ($v = 0.24\text{ m/s}$)**, amarrage rapide (46.6s) et **50% de succès**. | **Configuration Recommandée pour la Vitesse de Navigation** si le temps de parcours est prioritaire. |
+
+---
+
+## 6. Conclusion pour la Soutenance
+
+L'expérimentation impartiale menée dans cette étude a permis d'éclaircir trois points cruciaux :
+1. **Non-équivalence Perte / Performance Robotique** : Une fonction de perte stable ne garantit pas la vitesse cinématique. À $\eta = 0.001$, la perte est basse et régulière, mais le robot est trop lent pour les contraintes de temps d'une mission réelle.
+2. **Validation des Intuitions Visuelles** : L'examen attentif des trajectoires 2D a confirmé que le taux plus élevé ($\eta = 0.05$) permettait physiquement au robot d'atteindre la station beaucoup plus vite que les taux faibles, justifiant son taux de succès supérieur (50%).
+3. **Le Choix Optimal pour le Projet LIMO** :
+   - Pour un déploiement privilégiant la **précision métrologique et la douceur mécanique**, le réglage optimal est **$\eta = 0.01$ sur 150 époques** ($A_p = 2.4\text{ cm}$, aucune oscillation).
+   - Pour un déploiement privilégiant la **rapidité d'intervention**, le modèle **$\eta = 0.05$** apporte le dynamisme moteur nécessaire.
